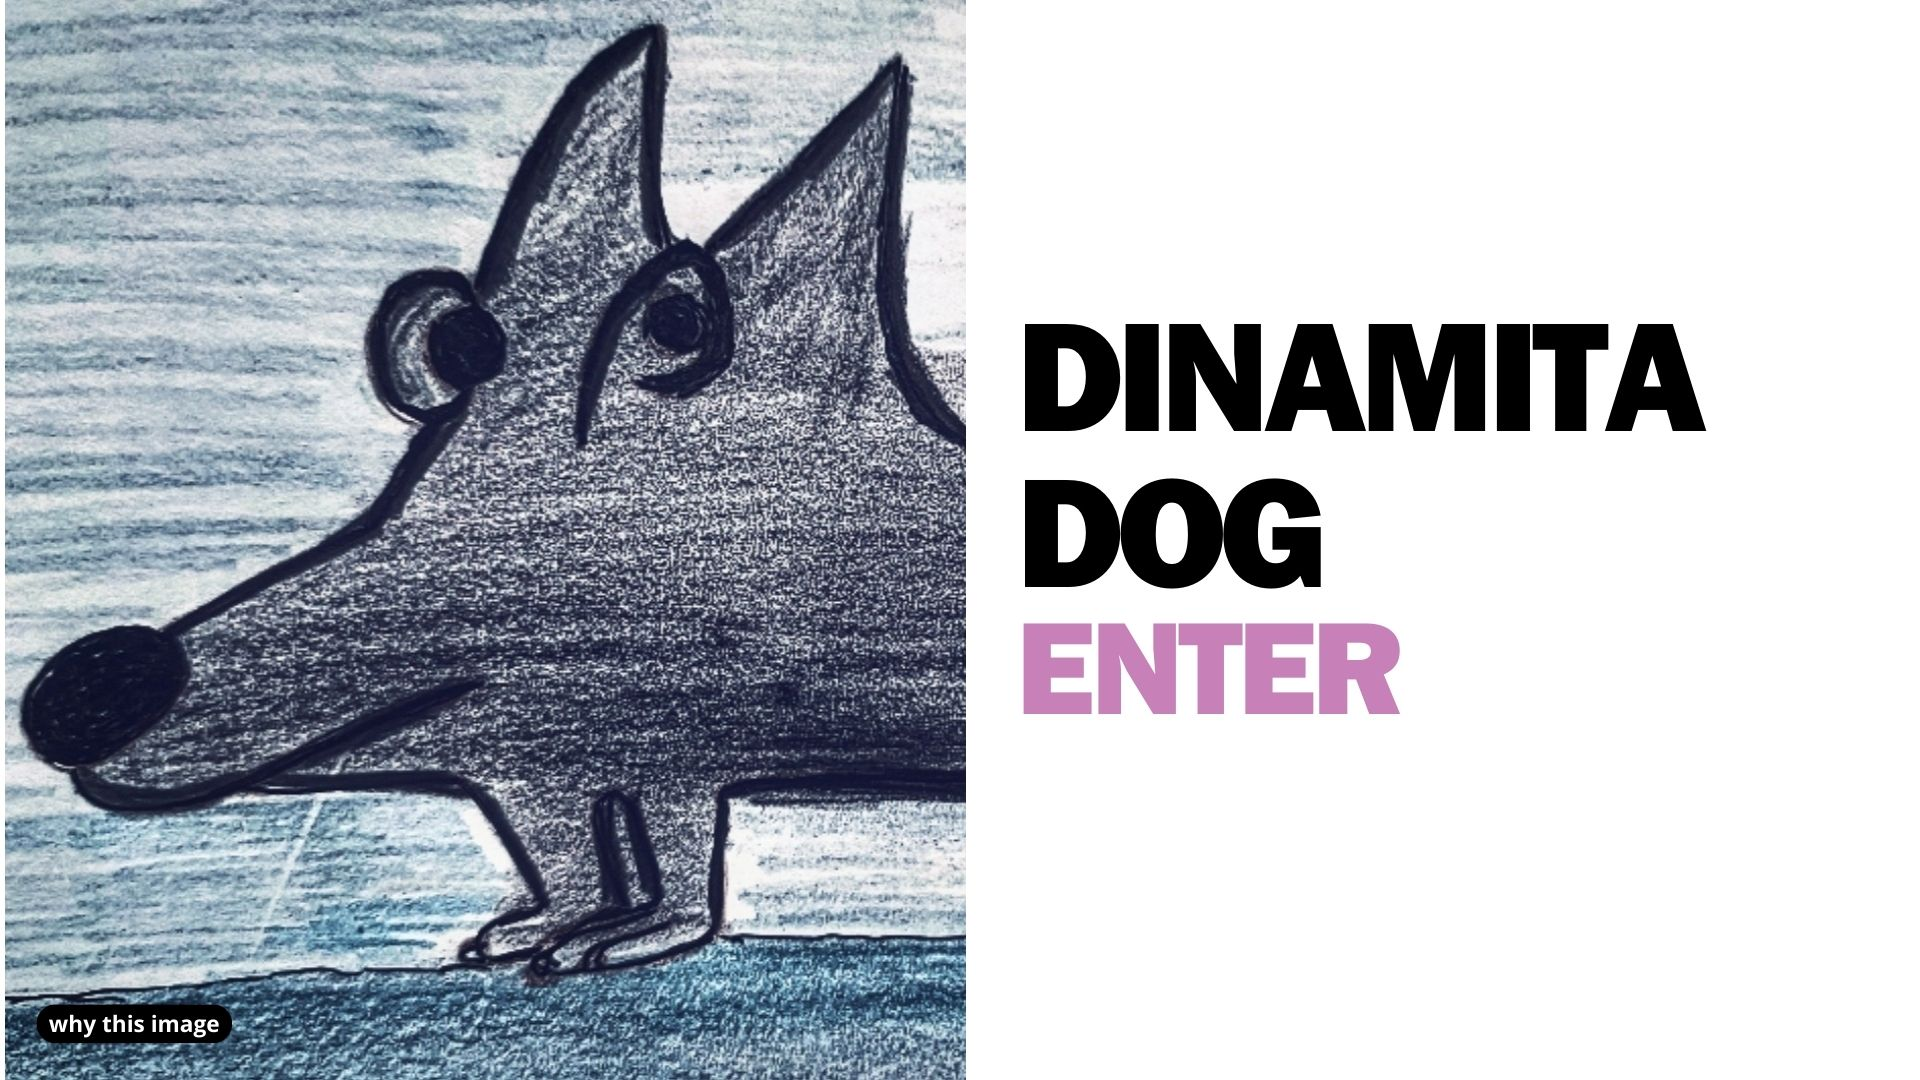
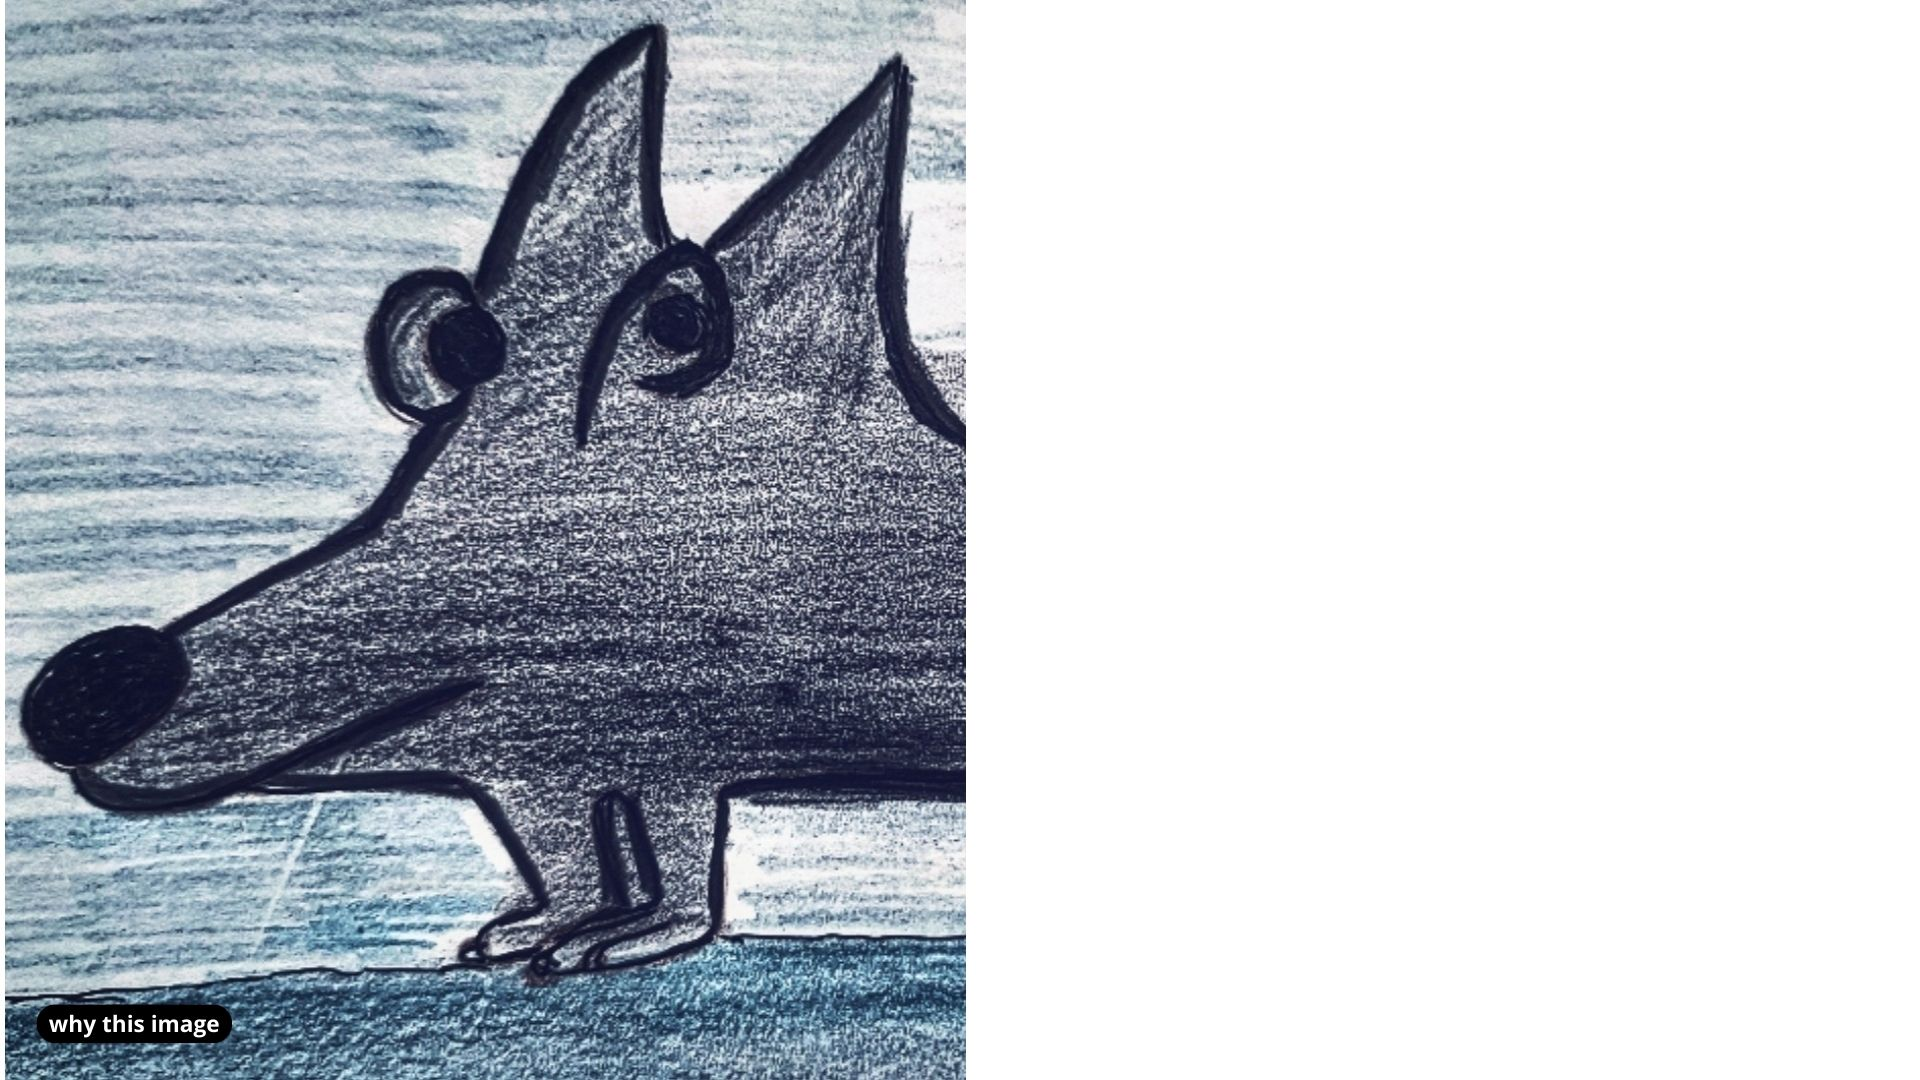
css

Changed region(s): [[0.5312, 0.4278, 0.75, 0.6722], [0.5312, 0.275, 0.9062, 0.3972]]

diff --git a/src/public/css/styleAdmin.css b/src/public/css/styleAdmin.css
@@ -26,6 +26,10 @@ body, html {
 
 .fondo1 {
   background-color: #fff;
+  background-image: url("https://dinamitadog-01a0d2a58fb2.herokuapp.com/static/img/fondo1.jpg");
+
+  background-position: center;
+  background-repeat: no-repeat;
   float: right;
   display: block;
   padding-left: 20px;
